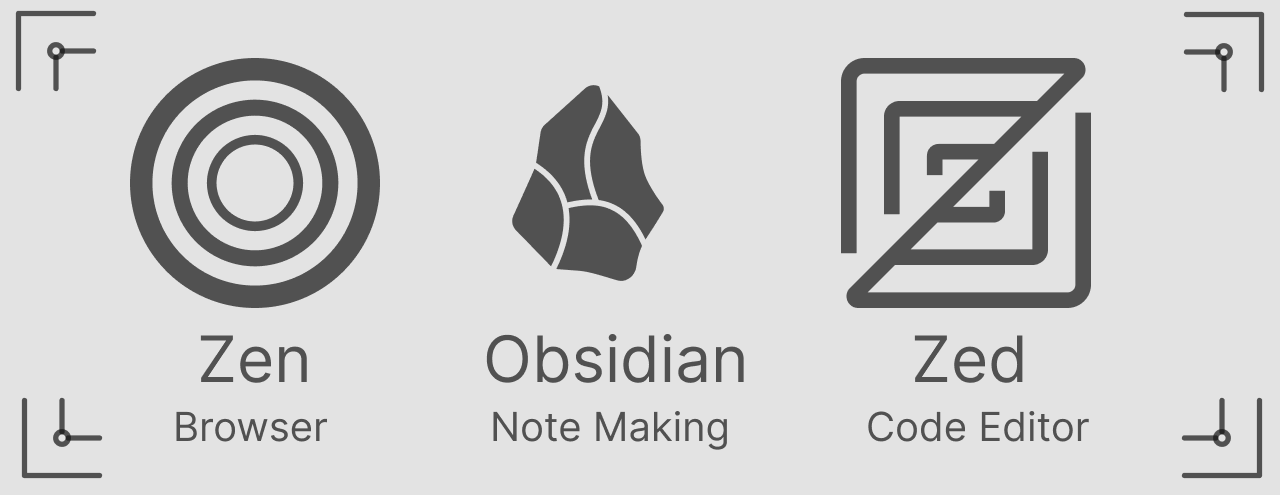
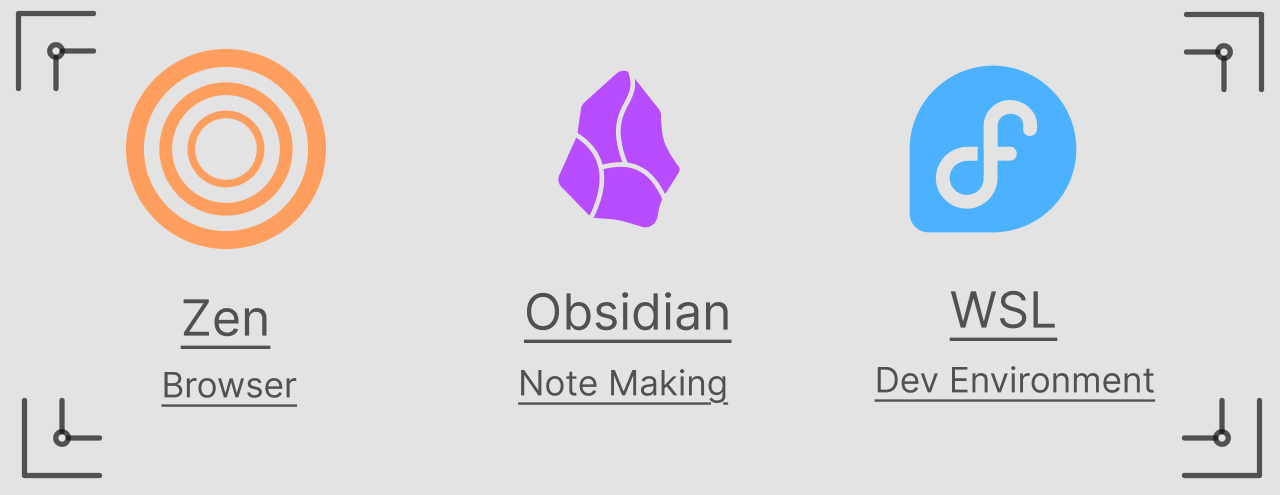
add blog

diff --git a/blog.html b/blog.html
@@ -4,7 +4,7 @@
 		<meta charset="UTF-8">
 		<meta name="viewport" content="width=device-width, initial-scale=1.0">
 		<title>Jana</title>
-		<link rel="icon" type="image/x-icon" href="assets/jana.png">
+		<link rel="icon" type="image/x-icon" href="assets/profile.png">
 		<!--favicon -->
 		<link rel="stylesheet" href="styles.css">
 	</head>
@@ -13,7 +13,7 @@
 			<!-- Left Sidebar Navigation -->
 			<aside class="sidebar-left">
 				<div class="logo">
-					<a href="index.html#about"><img src="assets/profile.png" height="100" alt="Logo"></a>
+					<a href="https://janardhan345.github.io"><img src="assets/profile.png" height="100" alt="Logo"></a>
 					<h1>Jana</h1>
 					<a href="https://x.com/JanaB99430"><img src="assets/x.png" height="30" width="30" alt="x"></a>
 					<a href="https://github.com/janardhan345"><img src="assets/github.png" height="30" width="30" alt="GitHub"></a>
@@ -23,6 +23,7 @@
 					<ul>
 						<li><a href="#BL-01" class="nav-link active">The True Purpose of Chess</a></li>
 						<li><a href="#BL-02" class="nav-link">Cansat GUI - How I built it</a></li>
+						<li><a href="#BL-03" class="nav-link">Softwares that I love to use</a></li>
 						<li><a href="#BL-04" class="nav-link">Should we use AI to code</a></li>
 						<li><a href="#BL-05" class="nav-link">FTTA - Building for 500+ users</a></li>
 						<li><a href="#BL-06" class="nav-link">IMDF - Filtering images by metadata</a></li>
@@ -62,7 +63,7 @@
 				</section>
 				<section id="BL-02" class="page-section">
 					<div class="section-banner">
-						<img src="assets/GUI - built.png" alt="GUI built phases">
+						<img id="guiBuiltBanner" src="assets/GUI - built.png" alt="GUI built phases">
 					</div>
 					<h2>How I built it - CANSAT GUI</h2>
 					<div class="blog-list">
@@ -86,7 +87,7 @@
 						<h3>Implementation Phase</h3>
 						<p>After completing the design and organizing the necessary assets, I planned how to implement it (the hardest part, to be honest).</p>
 						<p>I asked people on Discord how to implement this web-based GUI and also asked in subreddits for help.</p>
-						<p>One person responded well and helped build the frontend. I used HTML, Tailwind CSS, and packages such as Socket.IO client, Chart.js, Leaflet.js, and Three.js for data visualization, all added via CDN for simplicity. Then I optimized the frontend visualization by swapping in a package more suitable for telemetry. That swap really made a great difference — ApexCharts  &lt;-&gt; Chart.js. Because ApexCharts didn't support 10Hz speed, and even when it did, the visualization was too slow or got stuck at moments.</p>
+						<p>One person responded well and helped me build the frontend. I used HTML, Tailwind CSS, and packages such as Socket.IO client, Chart.js, Leaflet.js, and Three.js for data visualization, all added via CDN for simplicity. Then I optimized the frontend visualization by swapping in a package more suitable for telemetry. That swap really made a great difference — ApexCharts  &lt;-&gt; Chart.js. Because ApexCharts didn't support 10Hz speed, and even when it did, the visualization was too slow or got stuck at moments.</p>
 						<p>Now to the backend — this part was supposed to be done first, but my lack of knowledge at that time made me lean toward the frontend. But now I realize backend suits me a lot. So I started learning backend concepts and then chose Node.js, for one reason: I didn't want to switch languages. Then the important concepts came into play: <code>events</code>, <code>eventListener</code>, <code>eventEmitter</code>, <code>Web Sockets</code>, <code>Socket.io</code>.</p>
 						<hr>
 						<h3>Testing phase & Conclusion</h3>
@@ -96,21 +97,75 @@
 					</div>
 					<hr>
 				</section>
+				<section id="BL-03" class="page-section">
+					<div class="section-banner">
+						<img id="favSwBanner" src="assets/Fav -SW.png" alt="fav softwares">
+					</div>
+					<h2>Softwares that I Love to use</h2>
+					<span class="blog-date">August 31, 2026</span>
+					<h3>Zen Browser</h3>
+					<br>
+					<img src="assets/zen.png" alt="zen-browser" class="image-view">
+					<br>
+					<p>There are many good reasons for using <a href="https://zen-browser.app">Zen Browser</a>, but let's talk about the Default browser <i>Chrome</i>, It's not bad neither good as well, the horizontal tab manager, need to switch to a new tab if I have to use different account, Performance, its so visible and you can check in Task manager that Chrome consumes about ~ 30 - 100% of resources, meanwhile Zen consumes only about ~ 3 - 20% even at its peak load It won't cross 30%. Now I want to tell you the reasons I use Zen</p>
+					<ol>
+						<li><i>The Tab management</i>: Vertical Tab manager, firefox browser already has this what's new here, its the compact mode that would open/close the sidebar just with hover/keyboard shortcut/customized shortcuts provided by them.</li>
+						<li><i>Containers / Workspaces</i>: Just like we devs use containers inside a computer, here they have containers in browser to have separate google accounts for a better experience with linked apps with multiple accounts and we can shift from one container to another just by clicking buttons at the bottom</li>
+						<li><i>Folders</i>: We can create folders and have multiple relevant sites in there, I use this categorizing sites I visit frequently (Blog, Docs, Media) and I often visit such as (Projects folder each with DB, Cloud, PaaS services site)</li>
+						<li><i>Essential Tabs</i>: Pin the sites we use the most such as Whatsapp, YT etc. some people use these applications locally but I will come to it later.</li>
+						<li><i>Themes & Extensions</i>: Great marketplace by <a href="https://sineorg.github.io/store">Sine</a>
+						and most popular theme is Nebula, but I use Arc for simple interface but with same transparent & blur feel. Arc 2.0 is not just a theme it has many significant featurers such as downloading sites locally and it looks amazing and feels the same way of locally installed apps.</li>
+						<li><i>Keyboard shortcuts</i>: A feature I expect in all kind of applications is keyboard-driven support and customizing keyboard shortcuts. I won't expect this feature in designer softwares though 😅.</li>
+						<li><i>Other Reasons</i>: Split view, Glance, Updates that genuinely fixes things and add even improvements and Finally this is an Free and an Open source project, I would likely be a donor/contributor in near future.</li>
+					</ol>
+					<br>
+					<h3>Obsidian.md</h3>
+					<p>I have been taking notes for more than 4 years and this is the one I will stick with forever, I have previously used OneNote from Microsoft and In mobile I used Xiaomi's default note taking app, those are good for simple note takings, OneNote is a good one to organize unstructured ideas in their whiteboard like interface, Its not strict and structured that's a problem and the way we organize notes totally changes in <a href="https://obsidian.md">Obsidian</a></p>
+					<img src="assets/obs.png" alt="obsidian" class="image-view">
+					<br>
+					<p>Obsidian is a markdown based note-taking software that is strict and not strict, structured and unstructured because its totally upto the users how they use this software.</p>
+					<h4>Reasons to use Obsidian:</h4>
+					<br>
+					<ol>
+						<li><i>Vaults</i>: Many may see maitain just one vault but I prefer to split them into Primary and Secondary vault to avoid complexity, afterall that's the whole purpose.</li>
+						<li><i>Markdown</i>: Many people hate markdown as LLMS mass produced them, but I have been using this way before LLMs/AI got popular. its a simple syntax to create neat documents and someone who read and write a lot of readme.md this is great.</li>
+						<li><i>Community Plugins</i>: Obsidian is not open-source and I respect it and Kepano the CEO of the company explained it and its understandable. But we users as devs can create our features and publish them as plugins, so we can have impossible feature any note taking can ever think, the most popular one is Excalidraw plugin, yes Excalidraw inside your note taking app and so many includes extra ordinary plugins & themes published by devs and official team as well.</li>
+						<li><i>Local Files</i>: All these files are in local computer, they ain't getting anywhere, but if you want to sync with mobile obsidian app or other desktops, you can buy their subscription or use a free plugin that provides the same sync feature with clouds such as Drive, OneDrive and even advanced Git and Github yeah having version control of your notes is an unexpected feature to have. there is no limits in this software with the growing community. Obsidian currently have a business model of cloud subscriptions that include Sync feature and publish where you can publish your notes in public as notes in their explicit obsidian domain great feature for non programmers such as Bloggers/Authors.</li>
+						<li><i>Other reasons/features</i>: Web viewer,Graph view(Backlinks), Bases, Bookmarks, Command palette and countless plugins from the community.</li>
+					</ol>
+					<br>
+					<h3>WSL- Windows Subsystem for Linux</h3>
+					<br>
+					<img src="assets/wsl.png" alt="wsl-repo" class="image-view">
+					<br>
+					<p>Most of the Dev community hates Microsoft, that's not what I wanna talk here cause no human is capable of defending that, but Microsoft has produced something really great that makes me appreciate Windows?, I never thought I would say this but WSL is one of the greatest package I use as my current dev environment. for context WSL is Linux inside windows not using VM / Dual boot that's the actual point it's a different implementation that uses the same resource that windows use not allocated separately for Linux, cause this is a software thats runs just like any other Windows Software.</p>
+					<h4>The Reasons I use it are simple:</h4>
+					<br>
+					<ol>
+						<li>Windows isn't the best dev environment out there.</li>
+						<li>Linux CLI inside windows (Great for Dev environments such as having nvm, pipx, docker cli and great for usign CLI / TUI applications)</li>
+						<li>Can install any distro as you want (doesn't occupy more than 1 to 3 GB), I only use Fedora for simplicity never had the need for more than one distro, even If I needed I would dev containers, well take a look</li>
+					</ol>
+					<br>
+					<img src="assets/distro.png" alt="distro" class="image-view">
+					<br>
+					<p>There are many CLI / TUI applications I love to discuss about, but that's for another day, thanks for making it this far, I wish you good luck in whatever pursue.</p>
+				</section>
 				<section id="BL-04" class="page-section">
 					<div class="section-banner">
-						<img src="assets/AI to code.png" alt="My Favorite Softwares">
+						<img id="aiToCodeBanner" src="assets/AI to code.png" alt="My Favorite Softwares">
 					</div>
 					<h2>Should we use AI to code or do it ourselves</h2>
 					<div class="blog-list">
 						<span class="blog-date">March 03, 2026</span>
 						<p>There are two sides to this:</p>
 						<ol>
-							<li>Business-oriented — use AI for a productivity-rich workflow: implement and fail fast, iterate until the best outcome, automate tasks, and focus on<b>
+							<li>Business-oriented — use AI for a productivity-rich workflow: implement and fail fast, iterate until the best outcome, automate tasks, and focus on<i>
 									designing the architecture of the system
-								</b>.</li>
+								</i>.</li>
 							<li>From some experienced developers' POV — don't let slop code enter your codebase, and use your brain to think and code.</li>
 						</ol>
-						<p>I think I can draw the line: <b>use AI to code, but do the thinking yourself</b>. Another thing — you have to understand what the code actually does before pushing it or adding a new feature.</p>
+						<p>I think I can draw the line: <i>use AI to code, but do the thinking yourself</i>. Another thing — you have to understand what the code actually does before pushing it or adding a new feature.</p>
 						<p>We can't totally neglect AI — it is really useful for boilerplate code and also good at teaching. If privacy is a concern, we can move to local LLMs, but the cost is literally huge for the GPU and computing power. My work isn't that secret, so I choose the normal path. I use OpenCode and Herdr with free AI models, since my use cases never exceeded that need. I'm also trying to use the bmad-method for the agents &amp; skills and customize them to my use cases. In the future I'll try to add my workflow here.</p>
 						<p>As a Backend Engineer, I prefer to focus on the logic and content of this site, so I use AI for repetitive frontend work like making the layout responsive. I wouldn't let AI write the content of this site — I use it for boring work and never let it touch the organic content and creative thinking process.</p>
 						<p>Being an extremist never ends well, and we've seen this pattern in history many times. So learn to be in the gray area.</p>

diff --git a/index.html b/index.html
@@ -13,7 +13,7 @@
 			<!-- Left Sidebar Navigation -->
 			<aside class="sidebar-left">
 				<div class="logo">
-					<a href="index.html#about"><img src="assets/profile.png" height="125" alt="logo"></a>
+					<a href="https:janardhan345.github.io/"><img src="assets/profile.png" height="125" alt="logo"></a>
 					<h1>Jana</h1>
 					<a href="https://x.com/JanaB99430"><img src="assets/x.png" height="30" width="30" alt="x"></a>
 					<a href="https://github.com/janardhan345"><img src="assets/github.png" height="30" width="30" alt="GitHub"></a>
@@ -42,6 +42,7 @@
 						<img src="assets/banner.webp" alt="About Section Banner">
 					</div>
 					<h1>About Me</h1>
+					<h3>It's upto the Programmer whether they are going to carry the burden or users and servers</h3>
 					<p>Welcome to my portfolio. I'm a passionate Backend Engineer.</p>
 					<hr>
 					<br>
@@ -150,6 +151,12 @@
 							<span class="blog-date">November 02, 2025</span>
 							<p>As I joined the team I was instructed to build the GUI using pyQt or even use C++, cause that's</p>
 							<a href="blog.html#BL-02" class="read-more">Read more →</a>
+						</article>
+						<article class="blog-item">
+							<h3>Softwares that I Love to use</h3>
+							<span class="blog-date">August 31, 2026</span>
+							<p>There are many good reasons for using <a href="https://zen-browser.app">Zen Brower</a>, but let's talk about the Default browser <i>Chrome</i>, its not bad either good as well...</p>
+							<a href="blog.html#BL-03" class="read-more">Read more →</a>
 						</article>
 						<article class="blog-item">
 							<h3>Should we Use AI to code ?</h3>

diff --git a/styles.css b/styles.css
@@ -9,7 +9,7 @@
     --bg-primary: #b6b6b6;
     --bg-secondary: #a5a5a5;
     --bg-tertiary: #a6f5e6;
-    --text-primary: #292927;
+    --text-primary: #272829;
     --text-secondary: #292927;
     --text-muted: #6f6b63;
     --border-color: #d8d5cd;
@@ -46,9 +46,13 @@ body {
     line-height: 1.6;
 }
 
+.p {
+    font-size: 4rem;
+}
+
 .container {
     display: grid;
-    grid-template-columns: fit-content(320px) minmax(0, 1fr) 280px;
+    grid-template-columns: 250px 1fr 280px;
     min-height: 100vh;
     gap: 0;
 }
@@ -161,6 +165,16 @@ body {
     border-radius: 16px;
     overflow: hidden;
     position: relative;
+}
+
+.image-view {
+    display: block;
+    width: 100%;
+    max-width: 100%;
+    height: auto;
+    border-radius: 24px;
+    margin: 1.5rem 0;
+    object-fit: cover;
 }
 
 .section-banner img {
@@ -421,7 +435,7 @@ body {
 /* Responsive Design */
 @media (max-width: 1200px) {
     .container {
-        grid-template-columns: fit-content(280px) minmax(0, 1fr);
+        grid-template-columns: 200px 1fr;
     }
 
     .sidebar-right {
@@ -436,6 +450,11 @@ body {
         width: calc(100% + 4rem);
         margin: -2rem -2rem 2rem -2rem;
         height: 250px;
+    }
+
+    .image-view {
+        width: 100%;
+        height: auto;
     }
 }
 
@@ -484,6 +503,11 @@ body {
         width: calc(100% + 3rem);
         margin: -1.5rem -1.5rem 1.5rem -1.5rem;
         height: 200px;
+    }
+
+    .image-view {
+        width: 100%;
+        height: auto;
     }
 
     .projects-grid {

diff --git a/script.js b/script.js
@@ -1,5 +1,24 @@
 // Theme Toggle
 const themeBtn = document.getElementById('themeBtn');
+const aiToCodeBanner = document.getElementById('aiToCodeBanner');
+const guiBuiltBanner = document.getElementById('guiBuiltBanner');
+const favSwBanner = document.getElementById('favSwBanner');
+
+function updateThemeImage() {
+    const isDarkMode = document.body.classList.contains('dark-mode');
+
+    if (aiToCodeBanner) {
+        aiToCodeBanner.src = isDarkMode ? 'assets/AI to code-dark.png' : 'assets/AI to code.png';
+    }
+
+    if (guiBuiltBanner) {
+        guiBuiltBanner.src = isDarkMode ? 'assets/GUI - built-dark.png' : 'assets/GUI - built.png';
+    }
+
+    if (favSwBanner) {
+        favSwBanner.src = isDarkMode ? 'assets/Fav -SW-dark.png' : 'assets/Fav -SW.png';
+    }
+}
 
 // Check for saved theme or default to dark mode
 const savedTheme = localStorage.getItem('theme') || 'light';
@@ -9,12 +28,15 @@ if (savedTheme === 'dark') {
     if (themeBtn) themeBtn.textContent = '◒ Light';
 }
 
+updateThemeImage();
+
 if (themeBtn) {
     themeBtn.addEventListener('click', () => {
         document.body.classList.toggle('dark-mode');
         const isDarkMode = document.body.classList.contains('dark-mode');
         localStorage.setItem('theme', isDarkMode ? 'dark' : 'light');
         themeBtn.textContent = isDarkMode ? '◒ Light' : '◓ Dark';
+        updateThemeImage();
     });
 }
 
